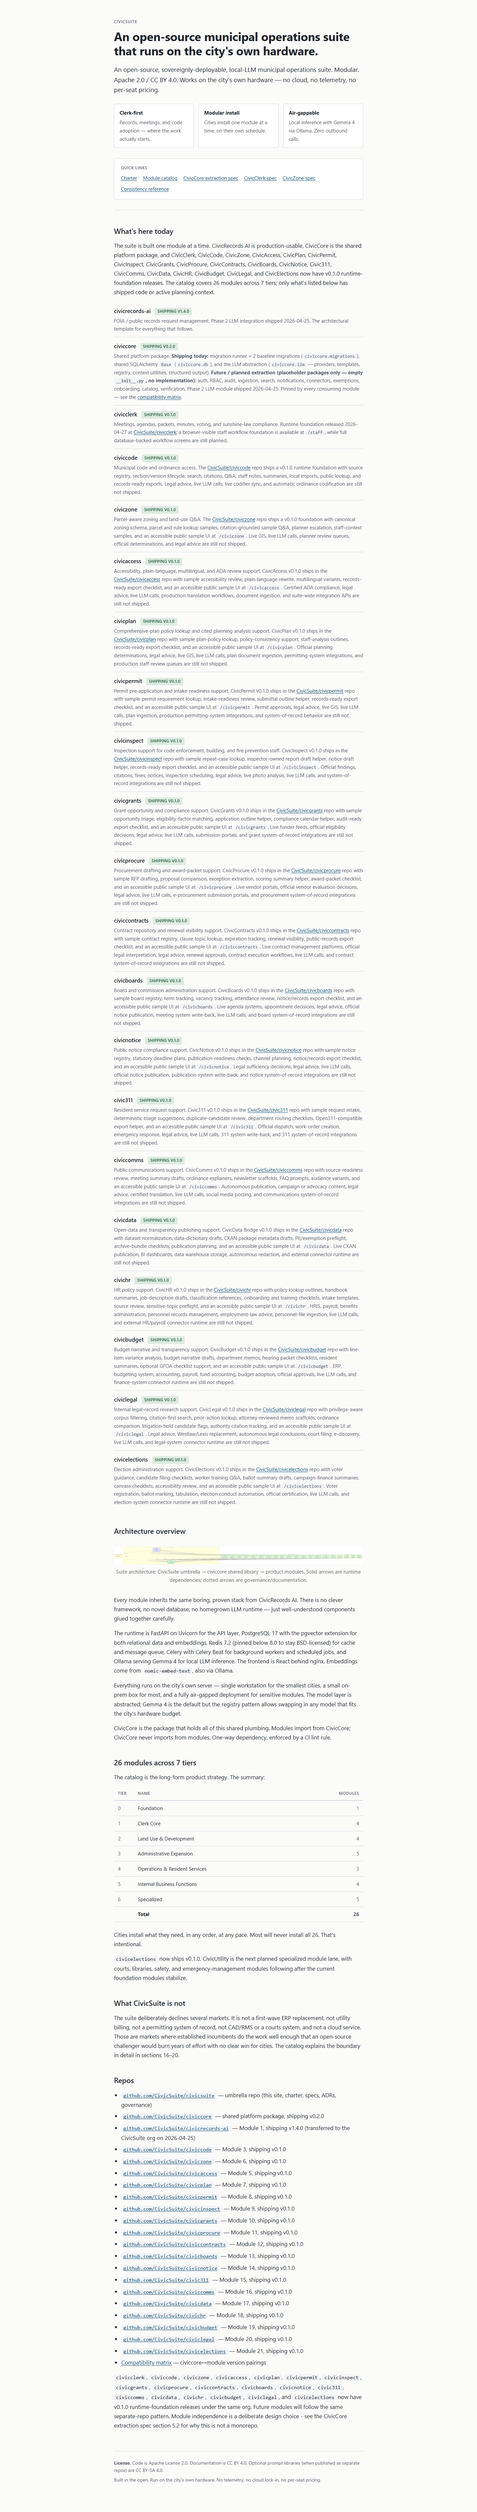
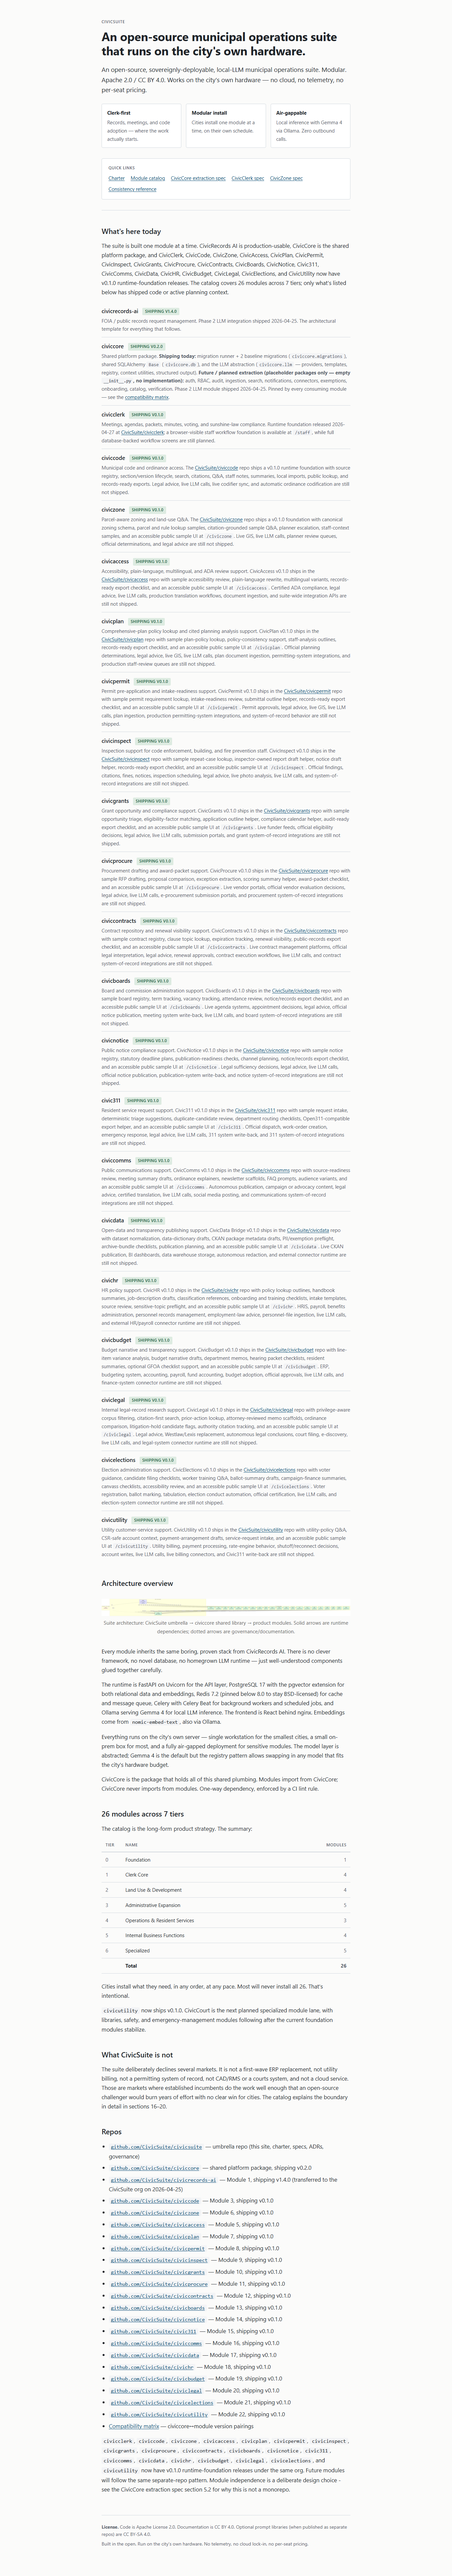
docs: update CivicUtility v0.1.0 compatibility state (#33)

Changed region(s): [[0.2152, 0.0, 0.7687, 0.9959]]

diff --git a/docs/index.html b/docs/index.html
@@ -263,7 +263,7 @@
 <main id="main">
 <section>
   <h2>What's here today</h2>
-  <p>The suite is built one module at a time. CivicRecords AI is production-usable, CivicCore is the shared platform package, and CivicClerk, CivicCode, CivicZone, CivicAccess, CivicPlan, CivicPermit, CivicInspect, CivicGrants, CivicProcure, CivicContracts, CivicBoards, CivicNotice, Civic311, CivicComms, CivicData, CivicHR, CivicBudget, CivicLegal, and CivicElections now have v0.1.0 runtime-foundation releases. The catalog covers 26 modules across 7 tiers; only what's listed below has shipped code or active planning context.</p>
+  <p>The suite is built one module at a time. CivicRecords AI is production-usable, CivicCore is the shared platform package, and CivicClerk, CivicCode, CivicZone, CivicAccess, CivicPlan, CivicPermit, CivicInspect, CivicGrants, CivicProcure, CivicContracts, CivicBoards, CivicNotice, Civic311, CivicComms, CivicData, CivicHR, CivicBudget, CivicLegal, CivicElections, and CivicUtility now have v0.1.0 runtime-foundation releases. The catalog covers 26 modules across 7 tiers; only what's listed below has shipped code or active planning context.</p>
 
   <ul class="module-status">
     <li>
@@ -371,13 +371,18 @@
       <span class="badge badge-shipping">shipping v0.1.0</span>
       <span class="desc">Election administration support. CivicElections v0.1.0 ships in the <a href="https://github.com/CivicSuite/civicelections">CivicSuite/civicelections</a> repo with voter guidance, candidate filing checklists, worker training Q&A, ballot-summary drafts, campaign-finance summaries, canvass checklists, accessibility review, and an accessible public sample UI at <code>/civicelections</code>. Voter registration, ballot marking, tabulation, election conduct automation, official certification, live LLM calls, and election-system connector runtime are still not shipped.</span>
     </li>
+  <li>
+      <span class="name">civicutility</span>
+      <span class="badge badge-shipping">shipping v0.1.0</span>
+      <span class="desc">Utility customer-service support. CivicUtility v0.1.0 ships in the <a href="https://github.com/CivicSuite/civicutility">CivicSuite/civicutility</a> repo with utility-policy Q&A, CSR-safe account context, payment-arrangement drafts, service-request intake, and an accessible public sample UI at <code>/civicutility</code>. Utility billing, payment processing, rate-engine behavior, shutoff/reconnect decisions, account writes, live LLM calls, live billing connectors, and Civic311 write-back are still not shipped.</span>
+    </li>
   </ul>
 </section>
 
 <section>
   <h2>Architecture overview</h2>
   <figure style="margin: 2em 0;">
-    <img src="diagrams/suite-architecture.svg" alt="CivicSuite umbrella architecture: civicsuite governs civiccore v0.2.0 shared library, which is consumed by civicrecords-ai v1.4.0, civicclerk v0.1.0, civiccode v0.1.0, civiczone v0.1.0, civicaccess v0.1.0, civicplan v0.1.0, civicpermit v0.1.0, civicinspect v0.1.0, civicgrants v0.1.0, civicprocure v0.1.0, civiccontracts v0.1.0, civicboards v0.1.0, civicnotice v0.1.0, civic311 v0.1.0, civiccomms v0.1.0, civicdata v0.1.0, civichr v0.1.0, civicbudget v0.1.0, civiclegal v0.1.0, and civicelections v0.1.0." style="max-width: 100%; height: auto; display: block; margin: 0 auto;">
+    <img src="diagrams/suite-architecture.svg" alt="CivicSuite umbrella architecture: civicsuite governs civiccore v0.2.0 shared library, which is consumed by civicrecords-ai v1.4.0, civicclerk v0.1.0, civiccode v0.1.0, civiczone v0.1.0, civicaccess v0.1.0, civicplan v0.1.0, civicpermit v0.1.0, civicinspect v0.1.0, civicgrants v0.1.0, civicprocure v0.1.0, civiccontracts v0.1.0, civicboards v0.1.0, civicnotice v0.1.0, civic311 v0.1.0, civiccomms v0.1.0, civicdata v0.1.0, civichr v0.1.0, civicbudget v0.1.0, civiclegal v0.1.0, civicelections v0.1.0, and civicutility v0.1.0." style="max-width: 100%; height: auto; display: block; margin: 0 auto;">
     <figcaption style="text-align: center; color: #666; font-size: 0.9em; margin-top: 0.5em;">Suite architecture: CivicSuite umbrella &rarr; civiccore shared library &rarr; product modules. Solid arrows are runtime dependencies; dotted arrows are governance/documentation.</figcaption>
   </figure>
   <p>Every module inherits the same boring, proven stack from CivicRecords AI. There is no clever framework, no novel database, no homegrown LLM runtime &mdash; just well-understood components glued together carefully.</p>
@@ -405,7 +410,7 @@
     </tbody>
   </table>
   <p>Cities install what they need, in any order, at any pace. Most will never install all 26. That's intentional.</p>
-  <p><code>civicelections</code> now ships v0.1.0. CivicUtility is the next planned specialized module lane, with courts, libraries, safety, and emergency-management modules following after the current foundation modules stabilize.</p>
+  <p><code>civicutility</code> now ships v0.1.0. CivicCourt is the next planned specialized module lane, with libraries, safety, and emergency-management modules following after the current foundation modules stabilize.</p>
 </section>
 
 <section>
@@ -437,9 +442,10 @@
     <li><a href="https://github.com/CivicSuite/civicbudget"><code>github.com/CivicSuite/civicbudget</code></a> &mdash; Module 19, shipping v0.1.0</li>
     <li><a href="https://github.com/CivicSuite/civiclegal"><code>github.com/CivicSuite/civiclegal</code></a> &mdash; Module 20, shipping v0.1.0</li>
     <li><a href="https://github.com/CivicSuite/civicelections"><code>github.com/CivicSuite/civicelections</code></a> &mdash; Module 21, shipping v0.1.0</li>
+    <li><a href="https://github.com/CivicSuite/civicutility"><code>github.com/CivicSuite/civicutility</code></a> &mdash; Module 22, shipping v0.1.0</li>
     <li><a href="../docs/compatibility/index.md">Compatibility matrix</a> &mdash; civiccore&harr;module version pairings</li>
   </ul>
-  <p><code>civicclerk</code>, <code>civiccode</code>, <code>civiczone</code>, <code>civicaccess</code>, <code>civicplan</code>, <code>civicpermit</code>, <code>civicinspect</code>, <code>civicgrants</code>, <code>civicprocure</code>, <code>civiccontracts</code>, <code>civicboards</code>, <code>civicnotice</code>, <code>civic311</code>, <code>civiccomms</code>, <code>civicdata</code>, <code>civichr</code>, <code>civicbudget</code>, <code>civiclegal</code>, and <code>civicelections</code> now have v0.1.0 runtime-foundation releases under the same org. Future modules will follow the same separate-repo pattern. Module independence is a deliberate design choice - see the CivicCore extraction spec section 5.2 for why this is not a monorepo.</p>
+  <p><code>civicclerk</code>, <code>civiccode</code>, <code>civiczone</code>, <code>civicaccess</code>, <code>civicplan</code>, <code>civicpermit</code>, <code>civicinspect</code>, <code>civicgrants</code>, <code>civicprocure</code>, <code>civiccontracts</code>, <code>civicboards</code>, <code>civicnotice</code>, <code>civic311</code>, <code>civiccomms</code>, <code>civicdata</code>, <code>civichr</code>, <code>civicbudget</code>, <code>civiclegal</code>, <code>civicelections</code>, and <code>civicutility</code> now have v0.1.0 runtime-foundation releases under the same org. Future modules will follow the same separate-repo pattern. Module independence is a deliberate design choice - see the CivicCore extraction spec section 5.2 for why this is not a monorepo.</p>
 </section>
 </main>
 

diff --git a/README.md b/README.md
@@ -33,9 +33,10 @@ This `civicsuite` repository is the **umbrella / orientation repo** for the Civi
 - **civic311 v0.1.0** - resident service request foundation. Ships deterministic sample request intake, triage suggestions, duplicate-candidate review, department routing checklists, Open311-compatible export helper, and accessible public sample UI at `/civic311`. Official dispatch, work-order creation, emergency response, legal advice, live LLM calls, 311 system write-back, and 311 system-of-record integrations are still not shipped. Repo: <https://github.com/CivicSuite/civic311>.
 - **civiccomms v0.1.0** - public communications foundation. Ships source-readiness review, meeting summary draft outlines, ordinance explainer drafts, newsletter scaffolds, FAQ prompts, audience-variant drafts, and accessible public sample UI at `/civiccomms`. Autonomous publication, campaign or advocacy content, legal advice, certified translation, live LLM calls, social media posting, and communications system-of-record integrations are still not shipped. Repo: <https://github.com/CivicSuite/civiccomms>.
 - **civicdata v0.1.0** - open-data and transparency publishing foundation. Ships dataset normalization, data-dictionary drafts, CKAN package metadata drafts, PII/exemption preflight, archive-bundle checklists, publication planning, and an accessible public sample UI at `/civicdata`. Live CKAN publication, BI dashboards, data warehouse storage, autonomous redaction, and external connector runtime are still not shipped. Repo: <https://github.com/CivicSuite/civicdata>.
+- **civicutility v0.1.0** - utility customer-service support foundation. Ships cited utility-policy Q&A, CSR-safe read-only account context, payment-arrangement drafts, service-request intake, and accessible public sample UI at `/civicutility`. Utility billing, payment processing, rate-engine behavior, shutoff/reconnect decisions, account writes, live LLM calls, live billing connectors, and Civic311 write-back are still not shipped. Repo: <https://github.com/CivicSuite/civicutility>.
 
 **Planned, not started:**
-- 5 additional modules across the catalog. Specs are not products. If a module is not listed above with a version, it does not exist as code yet.
+- 4 additional modules across the catalog. Specs are not products. If a module is not listed above with a version, it does not exist as code yet.
 
 See the [compatibility matrix](docs/compatibility/index.md) for the canonical version pairings.
 
@@ -56,7 +57,7 @@ If you're orienting yourself for the first time, read in this order:
 
 ## Current module lane
 
-CivicElections v0.1.0 now ships. CivicUtility is the next planned specialized module lane, with courts, libraries, safety, and emergency-management modules following after the current foundation modules stabilize.
+CivicUtility v0.1.0 now ships. CivicCourt is the next planned specialized module lane, with libraries, safety, and emergency-management modules following after the current foundation modules stabilize.
 
 ## What's in this repo
 
@@ -112,6 +113,7 @@ civicsuite/
 | civicbudget | <https://github.com/CivicSuite/civicbudget> | Module 19, v0.1.0 runtime foundation released; line-item analysis, budget narratives, department memos, hearing packet checklists, resident summaries, and GFOA checklist support. |
 | civiclegal | <https://github.com/CivicSuite/civiclegal> | Module 20, v0.1.0 runtime foundation released; privilege-aware legal-record search, prior-action lookup, memo scaffolds, ordinance comparison, litigation-hold flags, and citation tracking. |
 | civicelections | <https://github.com/CivicSuite/civicelections> | Module 21, v0.1.0 runtime foundation released; voter guidance, filing checklists, worker training, ballot summaries, campaign-finance summaries, canvass checklists, and accessibility review. |
+| civicutility | <https://github.com/CivicSuite/civicutility> | Module 22, v0.1.0 runtime foundation released; utility-policy Q&A, CSR-safe account context, payment-arrangement drafts, service-request intake, and public UI foundation. |
 
 Future module repos will land under `CivicSuite/` as separate repos.
 

diff --git a/docs/compatibility/index.md b/docs/compatibility/index.md
@@ -28,6 +28,7 @@ record.
 | civicbudget     | CivicSuite/civicbudget            | 0.1.0           | 2026-04-27 | `==0.2.0`                  | 2026-04-27    | First runtime release: line-item variance analysis, budget narrative drafts, department memo drafts, hearing packet checklists, resident summaries, optional GFOA checklist support, and accessible public UI foundation. |
 | civiclegal      | CivicSuite/civiclegal             | 0.1.0           | 2026-04-27 | `==0.2.0`                  | 2026-04-27    | First runtime release: privilege-aware corpus filtering, citation-first city-record search, prior-action lookup, attorney-reviewed memo scaffolds, ordinance comparison checklists, litigation-hold candidate flags, authority citation tracking, and accessible public UI foundation. |
 | civicelections  | CivicSuite/civicelections         | 0.1.0           | 2026-04-27 | `==0.2.0`                  | 2026-04-27    | First runtime release: voter guidance, candidate filing checklists, worker training Q&A, ballot-summary drafts, campaign-finance summaries, canvass checklists, accessibility review, and accessible public UI foundation. |
+| civicutility    | CivicSuite/civicutility           | 0.1.0           | 2026-04-27 | `==0.2.0`                  | 2026-04-27    | First runtime release: utility-policy Q&A, CSR-safe account context, payment-arrangement drafts, service-request intake, and accessible public UI foundation. |
 
 ## Reading a row
 
@@ -57,6 +58,7 @@ release produces undefined behavior.
 | 2026-04-27 | 0.2.0     | civicbudget 0.1.0      | green    | civicbudget v0.1.0 release at 106f414; 11 tests passed; verify-release.sh PASSED; GitHub release assets published |
 | 2026-04-27 | 0.2.0     | civiclegal 0.1.0       | green    | civiclegal v0.1.0 release at 375fc0b; 14 tests passed; verify-release.sh PASSED; GitHub release assets published |
 | 2026-04-27 | 0.2.0     | civicelections 0.1.0   | green    | civicelections v0.1.0 release at 5d3ae37; 12 tests passed; verify-release.sh PASSED; GitHub release assets published |
+| 2026-04-27 | 0.2.0     | civicutility 0.1.0     | green    | civicutility v0.1.0 release at f5ac5a3; 9 tests passed; verify-release.sh PASSED; GitHub release assets published |
 | 2026-04-27 | 0.2.0     | civicclerk 0.1.0       | green    | civicclerk release workflow run 24975592931; CivicClerk v0.1.0 published with civiccore 0.2.0 wheel |
 | 2026-04-27 | 0.2.0     | civicclerk 0.1.0 + staff UI foundation | green | civicclerk PR #14 merged; 358 tests passed; browser QA verified `/staff` desktop/mobile states |
 | 2026-04-26 | 0.2.0     | civicrecords-ai 1.4.0  | green    | docs/architecture-graphics-pass merged across all 3 repos; ruff + verify-release.sh PASSED on records-ai |

diff --git a/docs/roadmap/index.md b/docs/roadmap/index.md
@@ -6,7 +6,7 @@ condensed table view follows.
 
 ## Current next step
 
-**Current module lane: CivicData Bridge shipped v0.1.0.** CivicRecords AI is shipping
+**Current module lane: CivicUtility shipped v0.1.0.** CivicRecords AI is shipping
 at v1.4.0, civiccore is shipping at v0.2.0, CivicClerk is shipping at v0.1.0
 with a browser-visible `/staff` workflow foundation, and CivicCode is shipping
 at v0.1.0 with the municipal-code contract that CivicZone, CivicLegal,
@@ -27,10 +27,10 @@ audit-ready exports, and public UI foundation. CivicProcure is shipping at
 v0.1.0 with RFP drafting, proposal comparison, exception extraction, scoring
 summary helper, award-packet checklist, and accessible public UI foundation. CivicContracts is shipping at v0.1.0 with contract registry, clause topic lookup, expiration tracking, renewal visibility, public-records exports, and accessible public UI foundation. CivicBoards is shipping at v0.1.0 with board registry, term tracking, vacancy tracking, attendance review, notice/records exports, and accessible public UI foundation. CivicNotice is shipping at v0.1.0 with notice registry, statutory deadline plans, publication-readiness checks, channel planning, notice records exports, and accessible public UI foundation. Civic311 is shipping at v0.1.0 with request intake, triage suggestions, duplicate-candidate review, department routing, Open311-compatible exports, and accessible public UI foundation. CivicComms is shipping at v0.1.0 with source-readiness review, meeting summaries, ordinance explainers, newsletter scaffolds, FAQ prompts, audience variants, and accessible public UI foundation. CivicData Bridge is shipping at v0.1.0 with dataset normalization, data-dictionary drafts, CKAN package metadata drafts, PII/exemption preflight, archive-bundle checklists, publication planning, and accessible public UI foundation.
 
-CivicHR has shipped its v0.1.0 foundation. The next suite implementation lane can
+CivicHR, CivicBudget, CivicLegal, CivicElections, and CivicUtility have shipped their v0.1.0 foundations. The next suite implementation lane can
 plan against the CivicCore, CivicRecords AI, CivicClerk, CivicCode,
 CivicZone, CivicAccess, CivicPlan, CivicPermit, CivicInspect, CivicGrants,
-CivicProcure, CivicContracts, CivicBoards, CivicNotice, Civic311, CivicComms, and CivicData release contracts. CivicBudget is the next planned module lane.
+CivicProcure, CivicContracts, CivicBoards, CivicNotice, Civic311, CivicComms, CivicData, CivicHR, CivicBudget, CivicLegal, CivicElections, and CivicUtility release contracts. CivicCourt is the next planned module lane.
 
 The detailed execution plan is
 [`civiccode-next-module-plan.md`](civiccode-next-module-plan.md). The

diff --git a/docs/browser-qa-civicsuite-summary.md b/docs/browser-qa-civicsuite-summary.md
@@ -1,19 +1,19 @@
-# CivicSuite Browser QA
+# CivicSuite Browser QA Summary
 
-Generated: 2026-04-28T01:45:15.999Z
+Updated after CivicUtility v0.1.0 compatibility pass.
 
 ## desktop
+- URL: file:///C:/Users/scott/OneDrive/Desktop/Claude/CivicSuite/docs/index.html
+- Viewport: 1366x900
 - Screenshot: docs/browser-qa-civicsuite-desktop.png
 - Console errors: 0
-- Horizontal overflow: false
-- CivicElections visible: true
-- CivicUtility next-lane visible: true
-- CivicElections repo visible: true
+- CivicUtility shipping visible: true
+- CivicCourt next-lane visible: true
 
 ## mobile
+- URL: file:///C:/Users/scott/OneDrive/Desktop/Claude/CivicSuite/docs/index.html
+- Viewport: 390x844
 - Screenshot: docs/browser-qa-civicsuite-mobile.png
 - Console errors: 0
-- Horizontal overflow: false
-- CivicElections visible: true
-- CivicUtility next-lane visible: true
-- CivicElections repo visible: true
+- CivicUtility shipping visible: true
+- CivicCourt next-lane visible: true

diff --git a/docs/CivicSuiteUnifiedSpec.md b/docs/CivicSuiteUnifiedSpec.md
@@ -986,7 +986,7 @@ These are not blockers to this spec, but they require explicit ADRs before imple
 - Exact CivicClerk MVP table list if reduced from the canonical table set.
 - Whether CivicClerk v0.1 includes public comments.
 - Whether transcription is v0.1 or v0.2.
-- CivicUtility implementation scope and utility-billing boundaries now that CivicElections v0.1.0 is shipped.
+- CivicCourt implementation scope after CivicUtility v0.1.0 shipped.
 - Shared resident portal shell boundaries.
 - CivicCore auth/RBAC extraction order.
 - CivicCore document/search extraction order.
